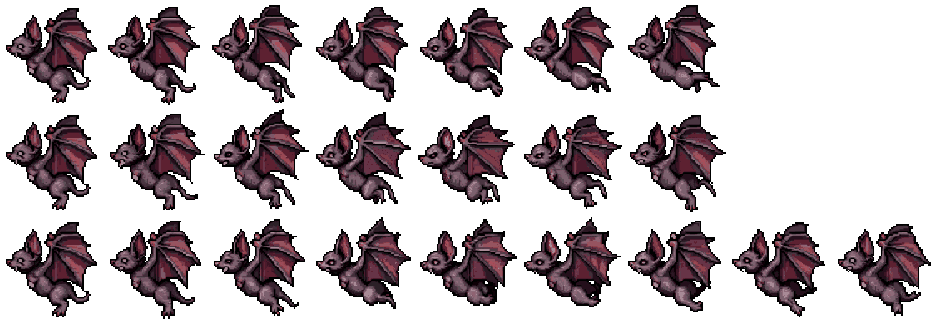
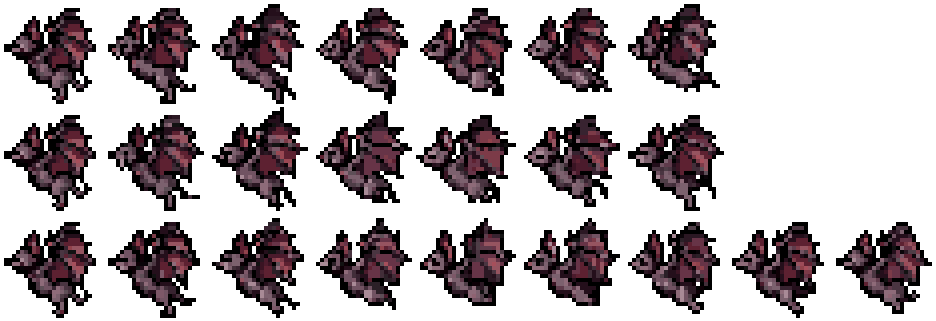
Savaş düşmanları kale/manzara piksel yoğunluğuna indirildi (ekranda 2 px)
13 düşman şeridi her karenin köşesinden 4x4 bloklara indirgendi (uretim/yogunluk_esitle.py):
blok rengi en sık opak renk, siluet kenarına koyu kontur. Şerit boyutu ve kare verileri aynı.

Claude-Session: https://claude.ai/code/session_01UDmPYyAuKDS6r7CGECjndN

Changed region(s): [[0.0, 0.0, 0.7746, 0.6542], [0.0, 0.6854, 0.9915, 0.9969]]

diff --git a/motor-deneme-5b8e2f/uretim/yogunluk_esitle.py b/motor-deneme-5b8e2f/uretim/yogunluk_esitle.py
@@ -1,0 +1,42 @@
+# Savaş birimlerinin piksel yoğunluğunu kale/manzarayla eşitler (ekranda 1 sanat pikseli = 2 px).
+# Her kare kendi köşesinden BxB (varsayılan 4: olcek 0.5 ile ekranda 2 px) bloklara bölünür; blok rengi en sık görülen opak renk
+# (eşitlikte en koyu: kontur korunur), alfa çoğunlukla. blok aynı renkle doldurulur:
+# şerit boyutu, kare yerleri, footY/centerX değişmez.
+import sys
+import numpy as np
+from PIL import Image
+from collections import Counter
+def isle(giris, cikis, fw, fh, B=4):
+    a = np.array(Image.open(giris).convert('RGBA'))
+    H, W = a.shape[:2]; out = np.zeros_like(a)
+    for fy in range(0, H - fh + 1, fh):
+        for fx in range(0, W - fw + 1, fw):
+            for y in range(fy, fy + fh, B):
+                for x in range(fx, fx + fw, B):
+                    blk = a[y:min(y+B, fy+fh), x:min(x+B, fx+fw)].reshape(-1, 4)
+                    op = blk[blk[:, 3] > 127]
+                    if len(op) * 3 < len(blk) or len(op) == 0:   # ince çizgiler (asa, yay) kaybolmasın: 1/3 dolu yeter
+                        continue
+                    c = Counter(map(tuple, op[:, :3])).most_common()
+                    en = c[0][1]
+                    adaylar = [k for k, n in c if n == en]
+                    renk = min(adaylar, key=lambda k: sum(int(v) for v in k))
+                    out[y:min(y+B, fy+fh), x:min(x+B, fx+fw)] = (*renk, 255)
+    # Kontur: siluet kenarındaki açık sanat pikselleri karenin en koyu konturuyla
+    for fy in range(0, H - fh + 1, fh):
+        for fx in range(0, W - fw + 1, fw):
+            fr = out[fy:fy+fh, fx:fx+fw]
+            g = fr[::B, ::B]
+            op = g[..., 3] > 0
+            if not op.any(): continue
+            lum = g[..., :3].astype(int).sum(2)
+            koyu = g[op][np.argmin(lum[op])][:3]
+            pad = np.pad(op, 1)
+            kenar = op & ~(pad[:-2, 1:-1] & pad[2:, 1:-1] & pad[1:-1, :-2] & pad[1:-1, 2:])
+            acik = kenar & (lum > 3 * 70)
+            for gy, gx in zip(*np.where(acik)):
+                fr[gy*B:(gy+1)*B, gx*B:(gx+1)*B, :3] = koyu
+    # Göz gibi küçük doygun vurgular: orijinal blokta doygun piksel varsa onu koru
+    Image.fromarray(out).save(cikis)
+if __name__ == '__main__':
+    isle(sys.argv[1], sys.argv[2], int(sys.argv[3]), int(sys.argv[4]), int(sys.argv[5]) if len(sys.argv) > 5 else 4)
